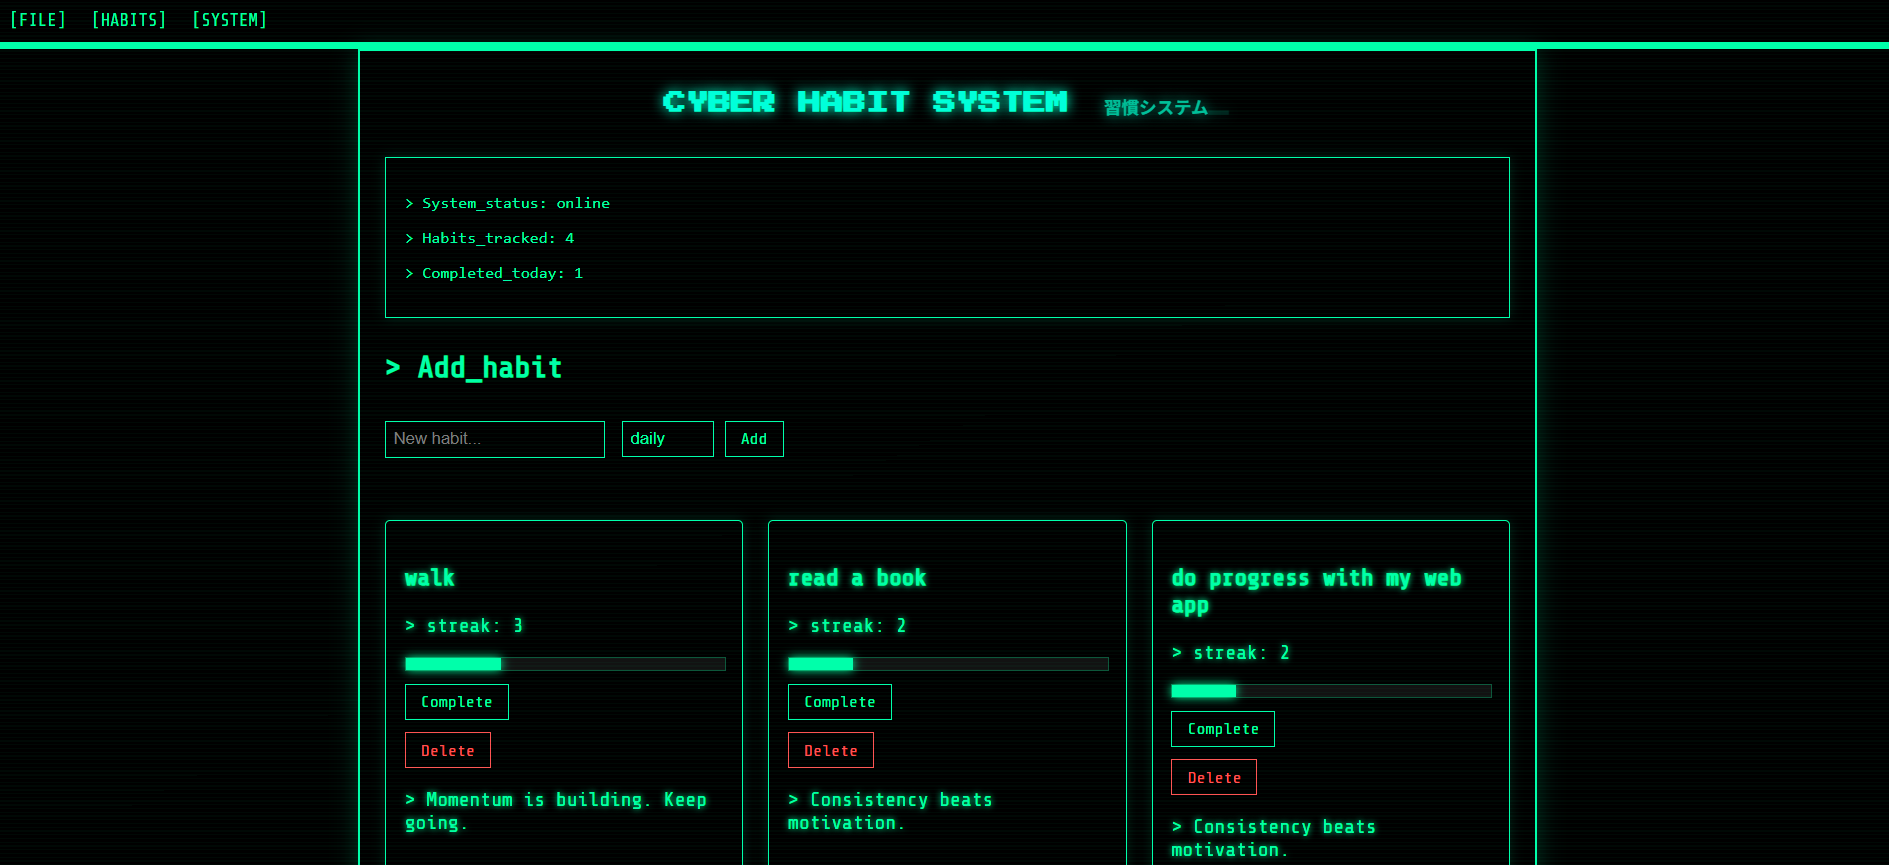
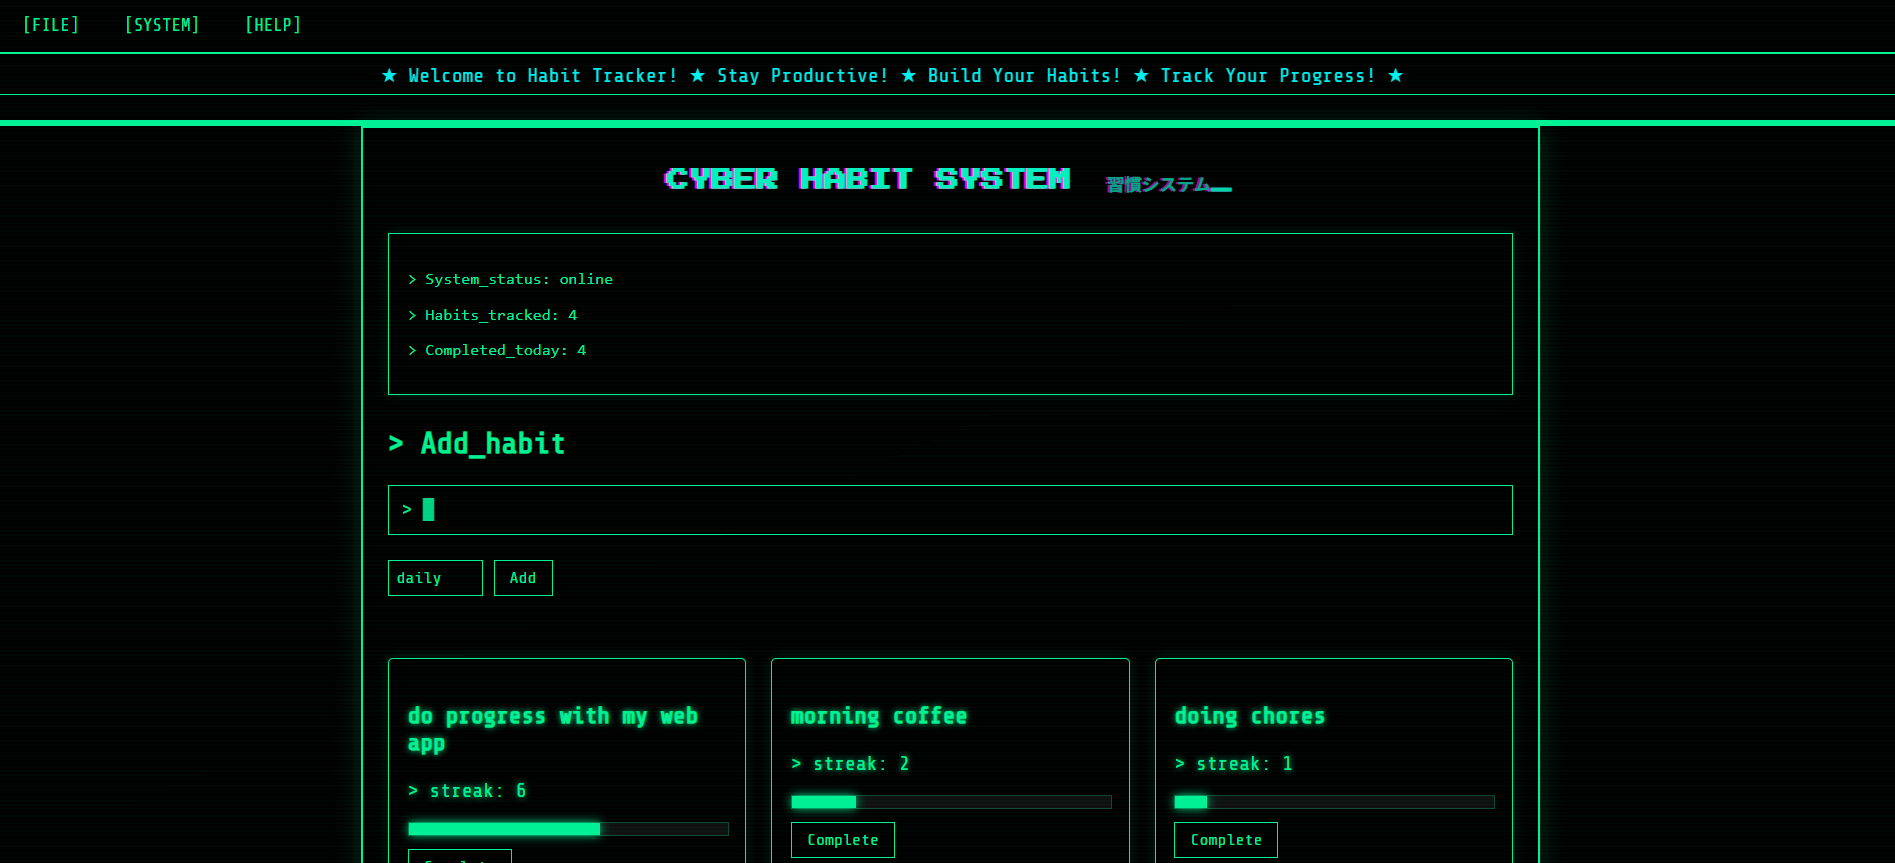
frontend update
- added script.js
-added sound effect for typing
- added some details in the html + css

diff --git a/templates/dashboard.html b/templates/dashboard.html
@@ -1,7 +1,6 @@
 <!DOCTYPE html>
 <html>
 <head>
-    <title>Cyber Habit Tracker</title>
     <link rel="stylesheet" href="{{ url_for('static', filename='style.css') }}">
     <link href="https://fonts.googleapis.com/css2?family=Orbitron&family=Share+Tech+Mono&display=swap" rel="stylesheet">
     <link href="https://fonts.googleapis.com/css2?family=Orbitron&family=Share+Tech+Mono&family=Press+Start+2P&display=swap" rel="stylesheet">
@@ -9,9 +8,34 @@
 
 <body>
 <div class="menu-bar">
-    <span>[FILE]</span>
-    <span>[HABITS]</span>
-    <span>[SYSTEM]</span>
+    <div class="menu-item">
+        [FILE]
+        <div class="dropdown">
+            <p>New Habit</p>
+            <p>Export Data</p>
+        </div>
+    </div>
+
+    <div class="menu-item">
+        [SYSTEM]
+        <div class="dropdown">
+            <p>Settings</p>
+            <p>Reset</p>
+        </div>
+    </div>
+
+    <div class="menu-item">
+        [HELP]
+        <div class="dropdown">
+            <p>About</p>
+            <p>Tips</p>
+        </div>
+    </div>
+</div>
+<div class="marquee-container">
+    <div class="marquee-text">
+        ★ Welcome to Habit Tracker! ★ Stay Productive! ★ Build Your Habits! ★ Track Your Progress! ★
+    </div>
 </div>
 <div id="boot">Initializing system...</div>
 <div id="loader">
@@ -19,7 +43,7 @@
 </div>
 <div class="container">
 
-    <h1>CYBER HABIT SYSTEM <span class="jp">習慣システム</span></h1>
+    <h1 class="glitch">CYBER HABIT SYSTEM <span class="jp">習慣システム</span></h1>
     <!-- 🟢 TERMINAL STATS -->
     <div class="terminal-box">
         <p>> System_status: online</p>
@@ -29,17 +53,28 @@
 
     <!-- 🟢 ADD HABIT FORM -->
     <div class="form-section">
-        <h2>> Add_habit</h2>
-        <form action="/habits" method="post">
-            <input type="text" name="name" placeholder="New habit..." required>
+    <h2>> Add_habit</h2>
 
-            <select name="frequency">
-                <option value="daily">daily</option>
-                <option value="weekly">weekly</option>
-            </select>
+    <form action="/habits" method="post">
 
-            <button type="submit">Add</button>
-        </form>
+        <!-- 🟢 Fake terminal input -->
+        <div class="terminal-input" onclick="focusInput()">
+            <span class="prompt">> </span>
+            <span id="fake-input"></span>
+            <span class="cursor">█</span>
+        </div>
+
+        <!-- 🟢 Real hidden input (IMPORTANT: keeps backend working) -->
+        <input type="text" name="name" id="real-input" required>
+
+        <!-- 🟢 Frequency -->
+        <select name="frequency">
+            <option value="daily">daily</option>
+            <option value="weekly">weekly</option>
+        </select>
+
+        <button type="submit">Add</button>
+    </form>
     </div>
 
     <!-- 🟢 HABITS GRID -->
@@ -66,21 +101,13 @@
             </form>
 
             <!-- 💡 AI TIP -->
-            <p>> {{ get_tip(habit) }}</p>
+            <p class="typing" data-text="{{ get_tip(habit) }}"></p>
 
         </div>
         {% endfor %}
     </div>
 
 </div>
-<script>
-window.addEventListener("load", () => {
-    const boot = document.getElementById("boot");
-    setTimeout(() => {
-        boot.style.display = "none";
-    }, 1200);
-});
-</script>
-
+<script src="{{ url_for('static', filename='script.js') }}"></script>
 </body>
 </html>

diff --git a/static/style.css b/static/style.css
@@ -136,6 +136,10 @@ select {
     color: #00ff9f;
     padding: 6px 25px 6px 6px;
     position: relative;
+    cursor: pointer;
+    font-family: 'Share Tech Mono', monospace;
+
+
 }
 
 .delete-btn {
@@ -227,4 +231,126 @@ select {
 @keyframes load {
     from { width: 0%; }
     to { width: 100%; }
+}
+
+.menu-bar {
+    display: flex;
+    gap: 20px;
+    padding: 10px;
+    border-bottom: 1px solid #00ff9f;
+    background: black;
+    position: relative;
+}
+
+.menu-item {
+    position: relative;
+    cursor: pointer;
+    padding: 4px 8px;
+}
+
+/* Dropdown hidden by default */
+.dropdown {
+    display: none;
+    position: absolute;
+    background: black;
+    min-width: 140px;
+}
+
+.menu-item:hover .dropdown {
+    display: block;
+}
+
+.dropdown * {
+    display: block;
+    padding: 6px 10px;
+    color: #00ff9f;
+}
+
+.dropdown *:hover {
+    background: #00ff9f;
+    color: black;
+}
+
+.xp-box {
+    border: 1px solid #00ff9f;
+    padding: 10px;
+    margin-bottom: 20px;
+}
+
+.xp-bar {
+    width: 100%;
+    height: 10px;
+    background: #111;
+    margin: 5px 0;
+}
+
+.xp-fill {
+    height: 100%;
+    background: #00ff9f;
+    transition: width 0.3s ease;
+    box-shadow: 0 0 8px #00ff9f;
+}
+
+.glitch {
+    position: relative;
+    animation: glitch 1.5s infinite;
+}
+
+@keyframes glitch {
+    0% { text-shadow: 2px 0 #00ff9f; }
+    20% { text-shadow: -2px 0 #ff00ff; }
+    40% { text-shadow: 2px 2px #00ffff; }
+    60% { text-shadow: -2px -2px #00ff9f; }
+    80% { text-shadow: 2px 0 #ff00ff; }
+    100% { text-shadow: 0 0 #00ff9f; }
+}
+
+.glitch-active {
+    filter: contrast(120%) brightness(120%);
+}
+
+.terminal-input {
+    background: black;
+    border: 1px solid #00ff9f;
+    padding: 10px;
+    font-family: 'Share Tech Mono', monospace;
+    margin-bottom: 10px;
+    cursor: text;
+}
+
+#real-input {
+    position: absolute;
+    opacity: 0;
+    pointer-events: none;
+}
+
+.cursor {
+    animation: blink 1s infinite;
+}
+
+@keyframes blink {
+    50% { opacity: 0; }
+}
+
+.marquee-container {
+    overflow: hidden;
+    white-space: nowrap;
+    border-top: 1px solid #00ff9f;
+    border-bottom: 1px solid #00ff9f;
+    margin-bottom: 20px;
+    padding: 5px 0;
+}
+
+.marquee-text {
+    display: inline-block;
+    padding-left: 100%;
+    animation: marquee 15s linear infinite;
+    color: #00ffff;
+    font-family: 'Share Tech Mono', monospace;
+}
+
+/* 🔥 animation */
+@keyframes marquee {
+    0%   { transform: translateX(0); }
+    100% { transform: translateX(-100%); }
 }

diff --git a/static/script.js b/static/script.js
@@ -1,0 +1,61 @@
+const sounds = new Audio("/static/type.mp3");
+
+window.addEventListener("load", () => {
+    const boot = document.getElementById("boot");
+    setTimeout(() => {
+        boot.style.display = "none";
+    }, 1200);
+});
+
+function typeEffect(element, text, speed = 30) {
+    let i = 0;
+    element.innerHTML = "";
+
+    function type() {
+        if (i < text.length) {
+            element.innerHTML += text.charAt(i);
+            sounds.currentTime = 0;
+            sounds.play().catch(() => {});
+            i++;
+            setTimeout(type, speed);
+        }
+    }
+
+    type();
+}
+
+document.querySelectorAll(".typing").forEach(el => {
+    const text = el.getAttribute("data-text");
+    typeEffect(el, "> " + text);
+});
+
+setInterval(() => {
+    document.body.classList.add("glitch-active");
+    setTimeout(() => {
+        document.body.classList.remove("glitch-active");
+    }, 150);
+}, 8000);
+
+const realInput = document.getElementById("real-input");
+const fakeInput = document.getElementById("fake-input");
+
+const typeSound = new Audio("/static/type.mp3");
+
+// focus when clicking the fake input
+function focusInput() {
+    realInput.focus();
+}
+
+// typing effect
+realInput.addEventListener("keydown", (e) => {
+    if (e.key.length === 1) {
+        fakeInput.innerHTML += e.key;
+
+        typeSound.currentTime = 0;
+        typeSound.play().catch(() => {});
+    }
+
+    if (e.key === "Backspace") {
+        fakeInput.innerHTML = fakeInput.innerHTML.slice(0, -1);
+    }
+});
